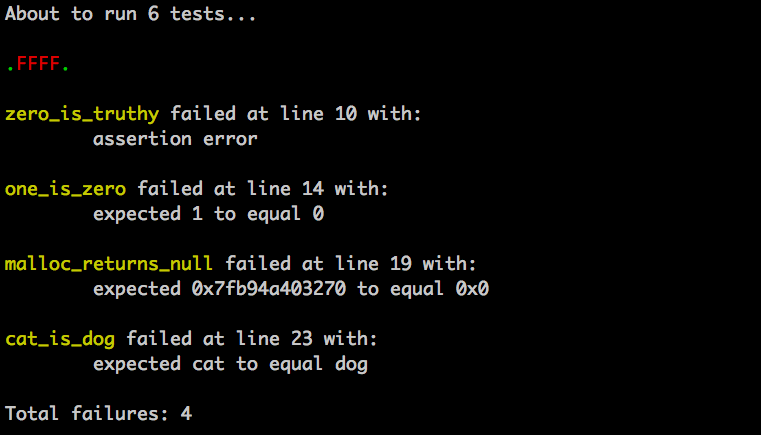
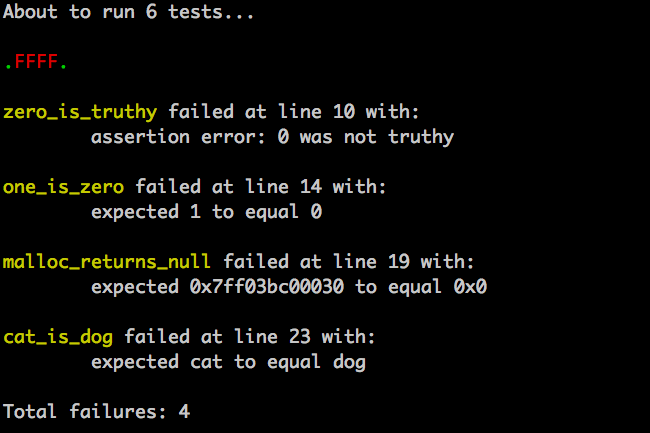
fix small issues with regular and pointer assertion errors

diff --git a/c_utest.h b/c_utest.h
@@ -50,11 +50,11 @@ static int _current_test;
   return;\
 } while(0)
 
-#define ASSERT(a) if (!a) FAIL_WITH("assertion error");
+#define ASSERT(a) if (!(a)) FAIL_WITH("assertion error: %s was not truthy", #a);
 #define ASSERT_EQUAL_INTS(a, b) if (a != b) FAIL_WITH("expected %d to equal %d", a, b);
 #define ASSERT_DIFFN_INTS(a, b) if (a == b) FAIL_WITH("expected %d NOT to equal %d", a, b);
-#define ASSERT_EQUAL_PTRS(a, b) if (a != b) FAIL_WITH("expected %p to equal %p", a, b);
-#define ASSERT_DIFFN_PTRS(a, b) if (a == b) FAIL_WITH("expected %p NOT to equal %p", a, b);
+#define ASSERT_EQUAL_PTRS(a, b) if (a != b) FAIL_WITH("expected %p to equal %p", (void*)a, (void*)b);
+#define ASSERT_DIFFN_PTRS(a, b) if (a == b) FAIL_WITH("expected %p NOT to equal %p", (void*)a, (void*)b);
 #define ASSERT_EQUAL_STRS(a, b) if ( strcmp(a, b)) FAIL_WITH("expected %s to equal %s", a, b);
 #define ASSERT_DIFFN_STRS(a, b) if (!strcmp(a, b)) FAIL_WITH("expected %s NOT to equal %s", a, b);
 #define TEST_THAT(name) do {\
